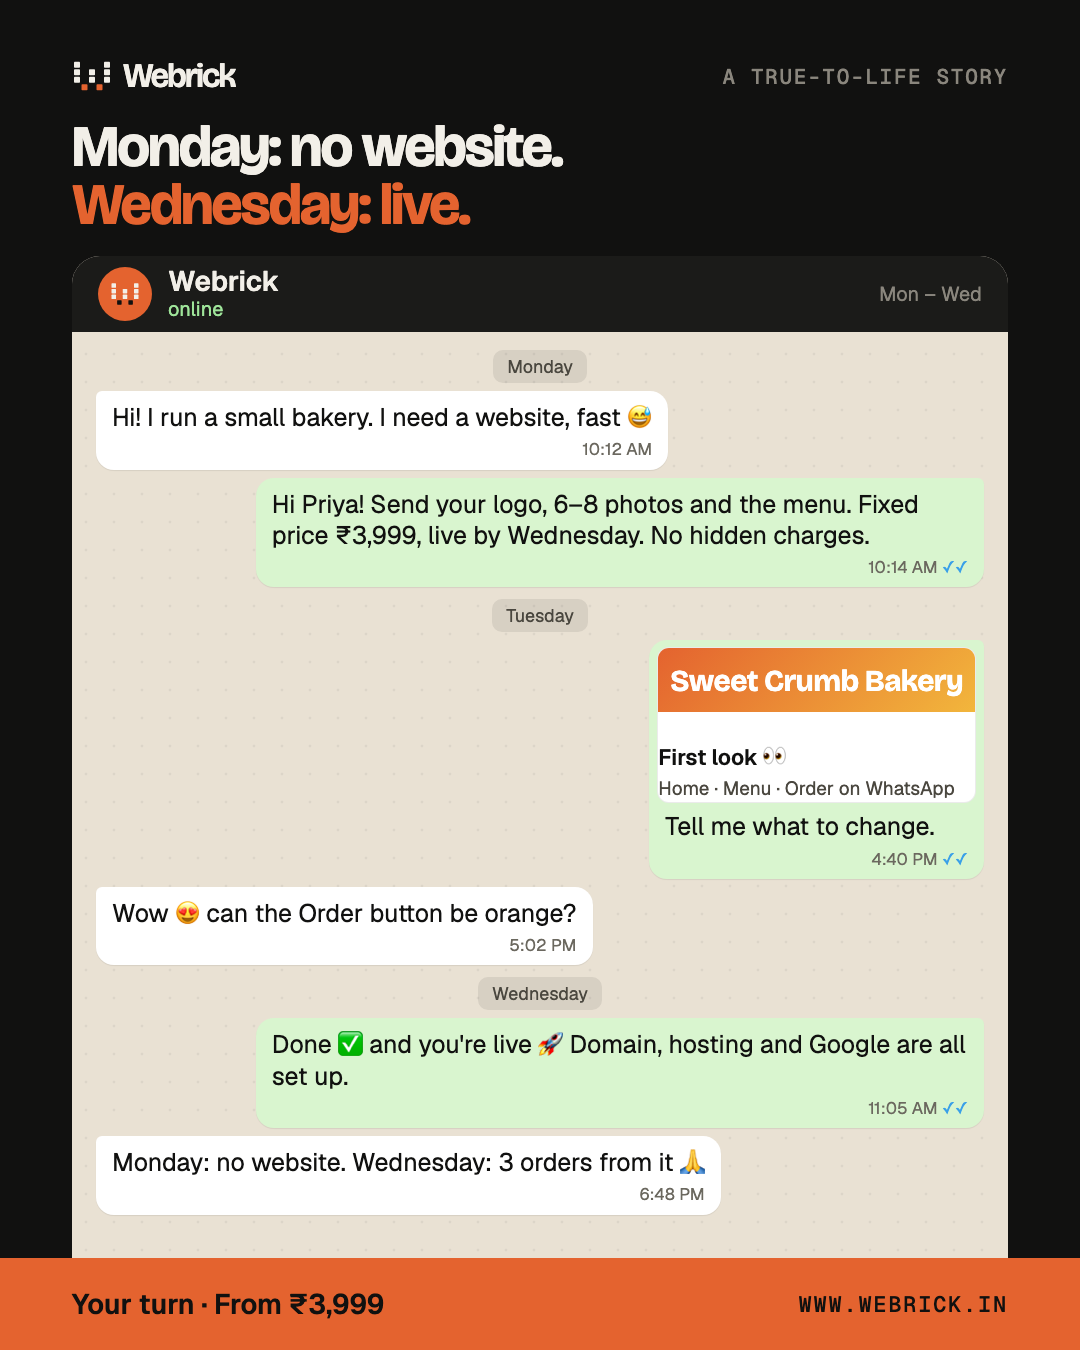
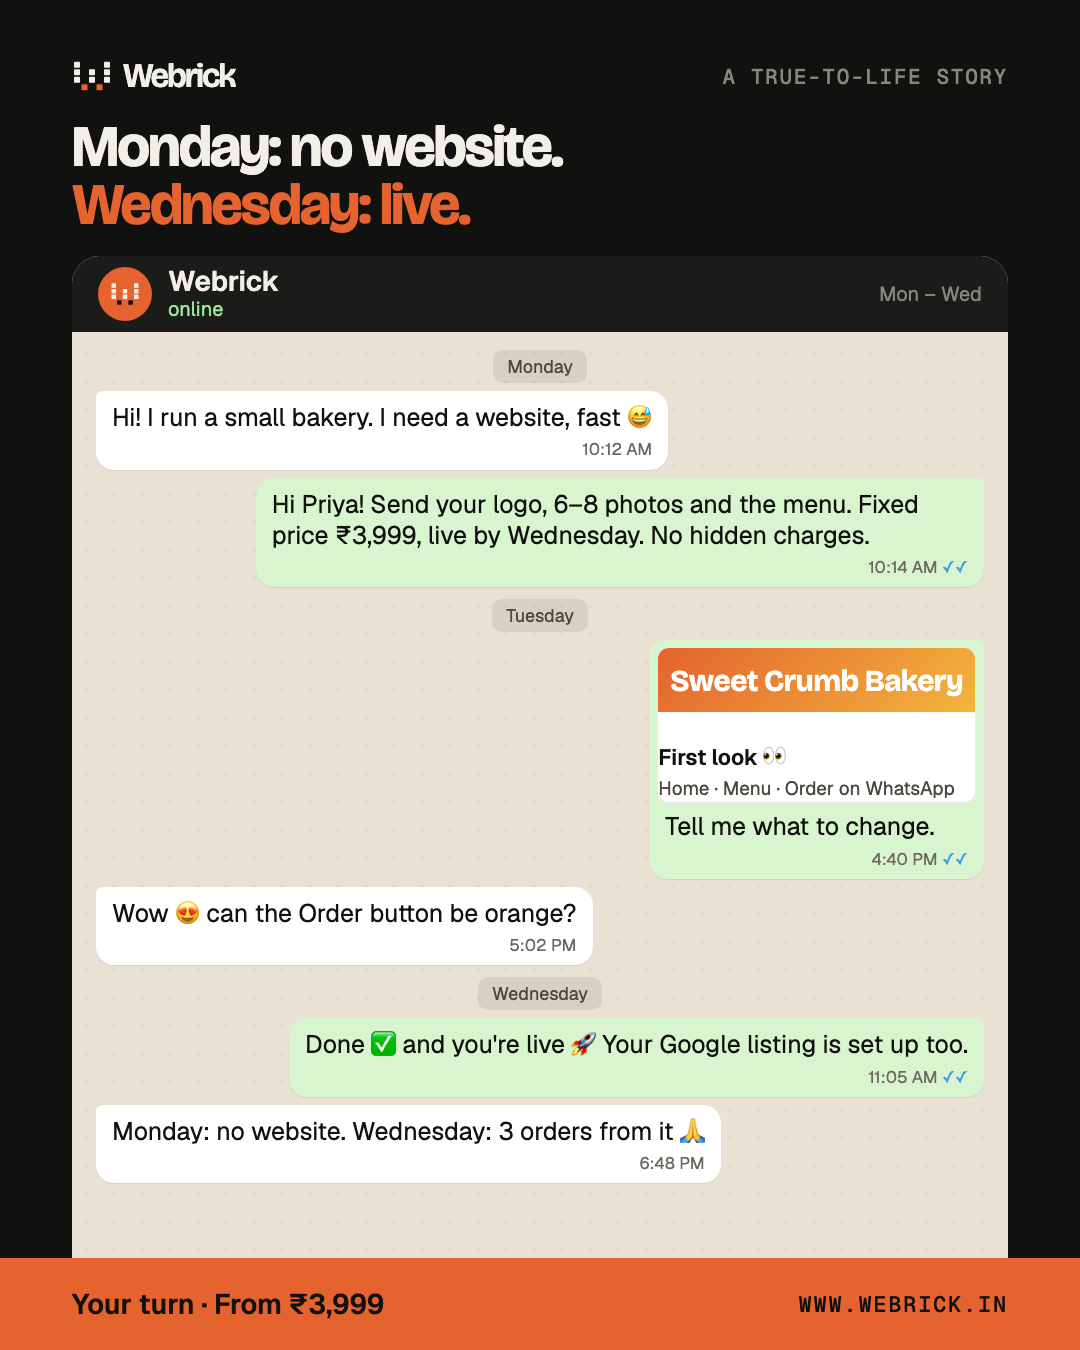
Brand posts: domain and hosting are not part of the service

Changed region(s): [[0.0917, 0.7467, 0.8861, 0.9022]]

diff --git a/brand/social/instagram/receipt-post-src/receipt-post.html b/brand/social/instagram/receipt-post-src/receipt-post.html
@@ -36,7 +36,7 @@
   .receipt .row b { font-weight:500; white-space:nowrap; }
   .receipt .total { font-family:'Bricolage Grotesque',sans-serif; font-weight:700; font-size:40px; letter-spacing:-.02em; display:flex; justify-content:space-between; align-items:baseline; }
   .receipt .bars { height:60px; margin-top:20px; background:repeating-linear-gradient(90deg,#111110 0 3px,transparent 3px 5px,#111110 5px 7px,transparent 7px 12px,#111110 12px 14px,transparent 14px 16px,#111110 16px 21px,transparent 21px 24px); }
-  .stamp { position:absolute; left:26px; top:788px; transform:rotate(-14deg); border:4px solid var(--c1); color:var(--c1); border-radius:10px; padding:6px 14px; font-family:'Bricolage Grotesque',sans-serif; font-weight:800; font-size:30px; letter-spacing:.04em; text-transform:uppercase; opacity:.9; }
+  .stamp { position:absolute; left:22px; top:722px; transform:rotate(-14deg); border:4px solid var(--c1); color:var(--c1); border-radius:10px; padding:6px 14px; font-family:'Bricolage Grotesque',sans-serif; font-weight:800; font-size:30px; letter-spacing:.04em; text-transform:uppercase; opacity:.9; }
 </style>
 </head>
 <body>
@@ -59,7 +59,6 @@
     <div class="row"><span><i>✓</i>SEO + Google setup</span><b>incl.</b></div>
     <div class="row"><span><i>✓</i>WhatsApp chat button</span><b>incl.</b></div>
     <div class="row"><span><i>✓</i>Contact form</span><b>incl.</b></div>
-    <div class="row"><span><i>✓</i>Domain + hosting setup</span><b>incl.</b></div>
     <div class="row"><span><i>✓</i>Delivered in 2-3 days</span><b>incl.</b></div>
     <div class="row"><span><i>✓</i>Support after launch</span><b>incl.</b></div>
     <div class="rule"></div>
@@ -68,6 +67,7 @@
     <div class="rule"></div>
     <div class="total"><span>TOTAL</span><span>₹3,999</span></div>
     <div class="c" style="margin-top:10px;font-size:19px">Fixed quote agreed before we start</div>
+    <div class="c" style="margin-top:4px;font-size:17px;color:#6b685f">Domain &amp; hosting billed separately</div>
     <div class="bars"></div>
     <div class="c" style="margin-top:12px;font-size:19px">THANK YOU FOR BUILDING WITH US</div>
     <div class="stamp">Paid in full</div>

diff --git a/brand/social/instagram/chat-post-src/chat-post.html b/brand/social/instagram/chat-post-src/chat-post.html
@@ -61,7 +61,7 @@
       <div class="m out"><span class="card"><span class="img">Sweet Crumb Bakery</span><span class="d"><b>First look 👀</b>Home · Menu · Order on WhatsApp</span></span>Tell me what to change.<span class="t">4:40 PM</span></div>
       <div class="m in">Wow 😍 can the Order button be orange?<span class="t">5:02 PM</span></div>
       <span class="day">Wednesday</span>
-      <div class="m out">Done ✅ and you're live 🚀 Domain, hosting and Google are all set up.<span class="t">11:05 AM</span></div>
+      <div class="m out">Done ✅ and you're live 🚀 Your Google listing is set up too.<span class="t">11:05 AM</span></div>
       <div class="m in">Monday: no website. Wednesday: 3 orders from it 🙏<span class="t">6:48 PM</span></div>
     </div>
   </div>
